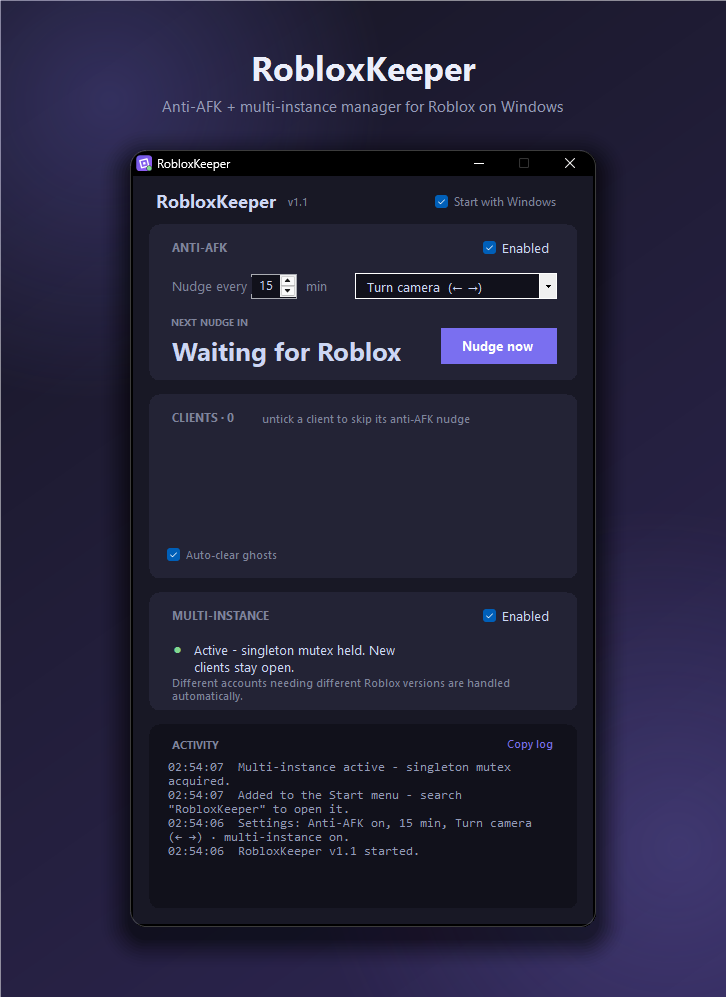
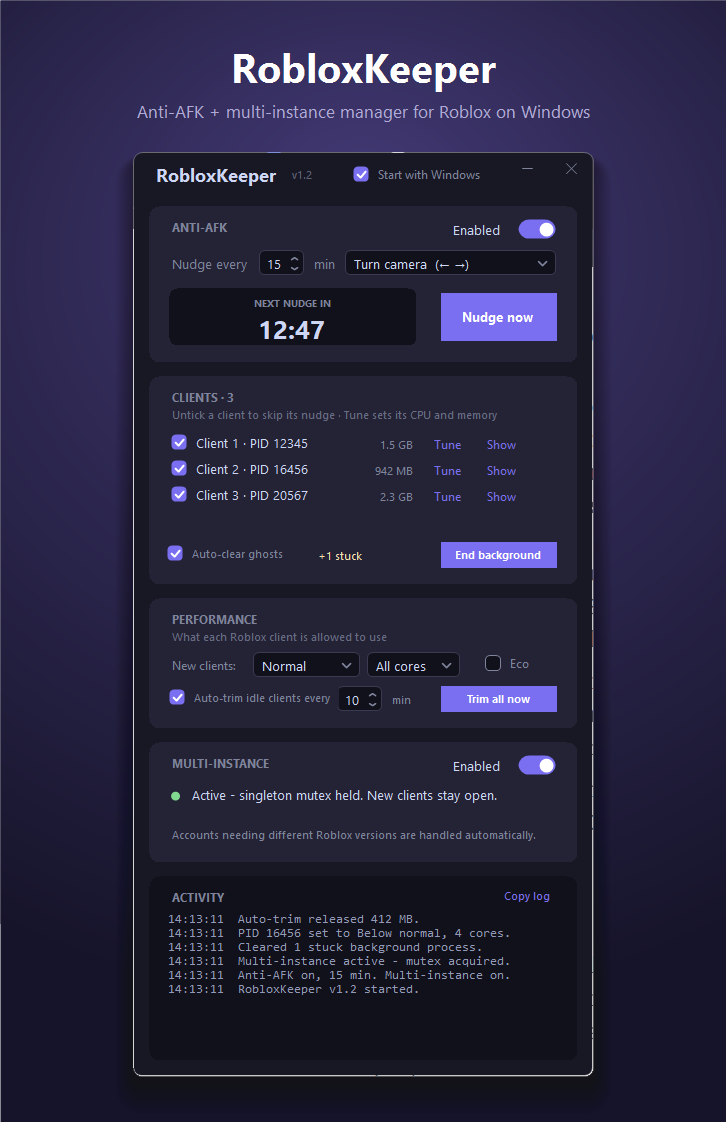
Centre the countdown, fix the hidden version label, refresh the hero image
The countdown well now centres both its caption and its readout: each label
spans the full width of the well and centres its own text, so "12:47" and
"Waiting for Roblox" - very different widths - both sit centred, and swapping
the font no longer has to reposition anything.

The version label in the title bar was never visible. Its box starts at x=156
but the title label's box ran to x=188, and labels are opaque with the earlier
one higher in the z-order, so the title was painting straight over it. Only the
title's *text* width was being checked against the version's x, which passed
while the box overlapped. Both are now named constants and the layout test
checks declared boxes as well as text.

assets/hero.png regenerated: it still showed the pre-rework UI with a system
title bar and no performance card. It is captured off the screen rather than
with DrawToBitmap, which cannot render a RichTextBox and left the activity log
empty.

APP_VERSION to 1.2.

diff --git a/src/MainForm.Ui.cs b/src/MainForm.Ui.cs
@@ -29,6 +29,12 @@ namespace RobloxKeeper
         const int LOG_Y = 724, LOG_H = 184;
 
         const int ROW_H = 26;
+        const int WELL_W = 248;   // the countdown well, left of the Nudge now button
+
+        // Title bar columns. TITLE_X + TITLE_W must not reach VER_X.
+        internal const int TITLE_X = 18, TITLE_W = 138;
+        internal const int VER_X = 156, VER_W = 60;
+        internal const int AUTOSTART_RIGHT = 356;
 
         Panel titleBar;
 
@@ -53,21 +59,24 @@ namespace RobloxKeeper
             titleBar.BackColor = Theme.Bg;
             Controls.Add(titleBar);
 
-            Label lblTitle = Ui.RowLabel("RobloxKeeper", 18, 0, TITLEBAR_H, 170, 13f, Theme.Text);
+            // Width stops at TITLE_W, not wherever looks roomy: these labels are
+            // opaque, and one added earlier sits higher in the z-order, so an
+            // oversized box here silently paints over the version beside it.
+            Label lblTitle = Ui.RowLabel("RobloxKeeper", 18, 0, TITLEBAR_H, TITLE_W, 13f, Theme.Text);
             lblTitle.Font = new Font("Segoe UI", 13f, FontStyle.Bold);
             lblTitle.BackColor = Theme.Bg;
             titleBar.Controls.Add(lblTitle);
 
             // Smaller and dimmer than the surrounding UI text so it reads as a
             // footnote to the title rather than competing with it.
-            Label lblVer = Ui.RowLabel("v" + AppInfo.APP_VERSION, 156, 0, TITLEBAR_H, 60, 8.25f,
+            Label lblVer = Ui.RowLabel("v" + AppInfo.APP_VERSION, VER_X, 0, TITLEBAR_H, VER_W, 8.25f,
                 Color.FromArgb(96, 100, 122));
             lblVer.BackColor = Theme.Bg;
             titleBar.Controls.Add(lblVer);
 
             chkAutostart = Ui.DarkCheck("Start with Windows", 0, 0, 9f);
             chkAutostart.BackColor = Theme.Bg;
-            chkAutostart.Location = new Point(356 - chkAutostart.PreferredSize.Width,
+            chkAutostart.Location = new Point(AUTOSTART_RIGHT - chkAutostart.PreferredSize.Width,
                                               (TITLEBAR_H - chkAutostart.PreferredSize.Height) / 2);
             bool autostartOn = false;
             try
@@ -154,10 +163,21 @@ namespace RobloxKeeper
             // contained readout rather than text floating in empty space.
             InsetPanel well = new InsetPanel();
             well.Location = new Point(Ui.PAD, 82);
-            well.Size = new Size(248, 58);
+            well.Size = new Size(WELL_W, 58);
             card.Controls.Add(well);
 
-            Label caption = Ui.CaptionLabel("NEXT NUDGE IN", 14, 10);
+            // Both span the full width of the well and centre their own text, so
+            // the caption and the readout stay centred no matter how the text
+            // below changes - "12:47" and "Waiting for Roblox" are very
+            // different widths.
+            Label caption = new Label();
+            caption.Text = "NEXT NUDGE IN";
+            caption.AutoSize = false;
+            caption.Location = new Point(0, 8);
+            caption.Size = new Size(WELL_W, 14);
+            caption.TextAlign = ContentAlignment.MiddleCenter;
+            caption.Font = new Font("Segoe UI", 7.5f, FontStyle.Bold);
+            caption.ForeColor = Theme.Muted;
             caption.BackColor = Theme.Inset;
             well.Controls.Add(caption);
 
@@ -165,8 +185,10 @@ namespace RobloxKeeper
             countdownWord = new Font("Segoe UI", 12f, FontStyle.Bold);
 
             lblCountdown = new Label();
-            lblCountdown.AutoSize = true;
-            lblCountdown.Location = new Point(12, COUNTDOWN_CLOCK_Y);
+            lblCountdown.AutoSize = false;
+            lblCountdown.Location = new Point(0, 22);
+            lblCountdown.Size = new Size(WELL_W, 30);
+            lblCountdown.TextAlign = ContentAlignment.MiddleCenter;
             lblCountdown.Font = countdownClock;
             lblCountdown.ForeColor = Theme.Text;
             lblCountdown.BackColor = Theme.Inset;

diff --git a/src/MainForm.Afk.cs b/src/MainForm.Afk.cs
@@ -134,17 +134,13 @@ namespace RobloxKeeper
             SetCountdown(((int)left.TotalMinutes).ToString() + ":" + left.Seconds.ToString("00"), true);
         }
 
-        // The big numeral suits a clock, but "Waiting for Roblox" at 19pt runs
-        // all the way into the Nudge now button, so word states drop a size and
-        // sit lower to stay optically centred.
+        // The big numeral suits a clock, but "Waiting for Roblox" at 19pt is too
+        // wide for the well, so word states drop a size. The label is fixed-width
+        // and centres its own text, so swapping the font re-centres by itself.
         void SetCountdown(string text, bool clock)
         {
             Font want = clock ? countdownClock : countdownWord;
-            if (!ReferenceEquals(lblCountdown.Font, want))
-            {
-                lblCountdown.Font = want;
-                lblCountdown.Location = new Point(12, clock ? COUNTDOWN_CLOCK_Y : COUNTDOWN_WORD_Y);
-            }
+            if (!ReferenceEquals(lblCountdown.Font, want)) lblCountdown.Font = want;
             if (lblCountdown.Text != text) lblCountdown.Text = text;
         }
     }

diff --git a/src/AppInfo.cs b/src/AppInfo.cs
@@ -5,7 +5,7 @@ namespace RobloxKeeper
     // published binary and the tag can never disagree.
     static class AppInfo
     {
-        public const string APP_VERSION = "1.1";
+        public const string APP_VERSION = "1.2";
 
         public const string REPO = "VladDerK1ng/RobloxKeeper";
         public const string RELEASE_API = "https://api.github.com/repos/" + REPO + "/releases/latest";

diff --git a/src/MainForm.cs b/src/MainForm.cs
@@ -151,9 +151,6 @@ namespace RobloxKeeper
         internal const int FULL_HEIGHT = 924;
         internal const int BASE_WIDTH = 460;
 
-        const int COUNTDOWN_CLOCK_Y = 22;
-        const int COUNTDOWN_WORD_Y = 27;
-
         void SetHeightToFitScreen()
         {
             int available = FULL_HEIGHT;
